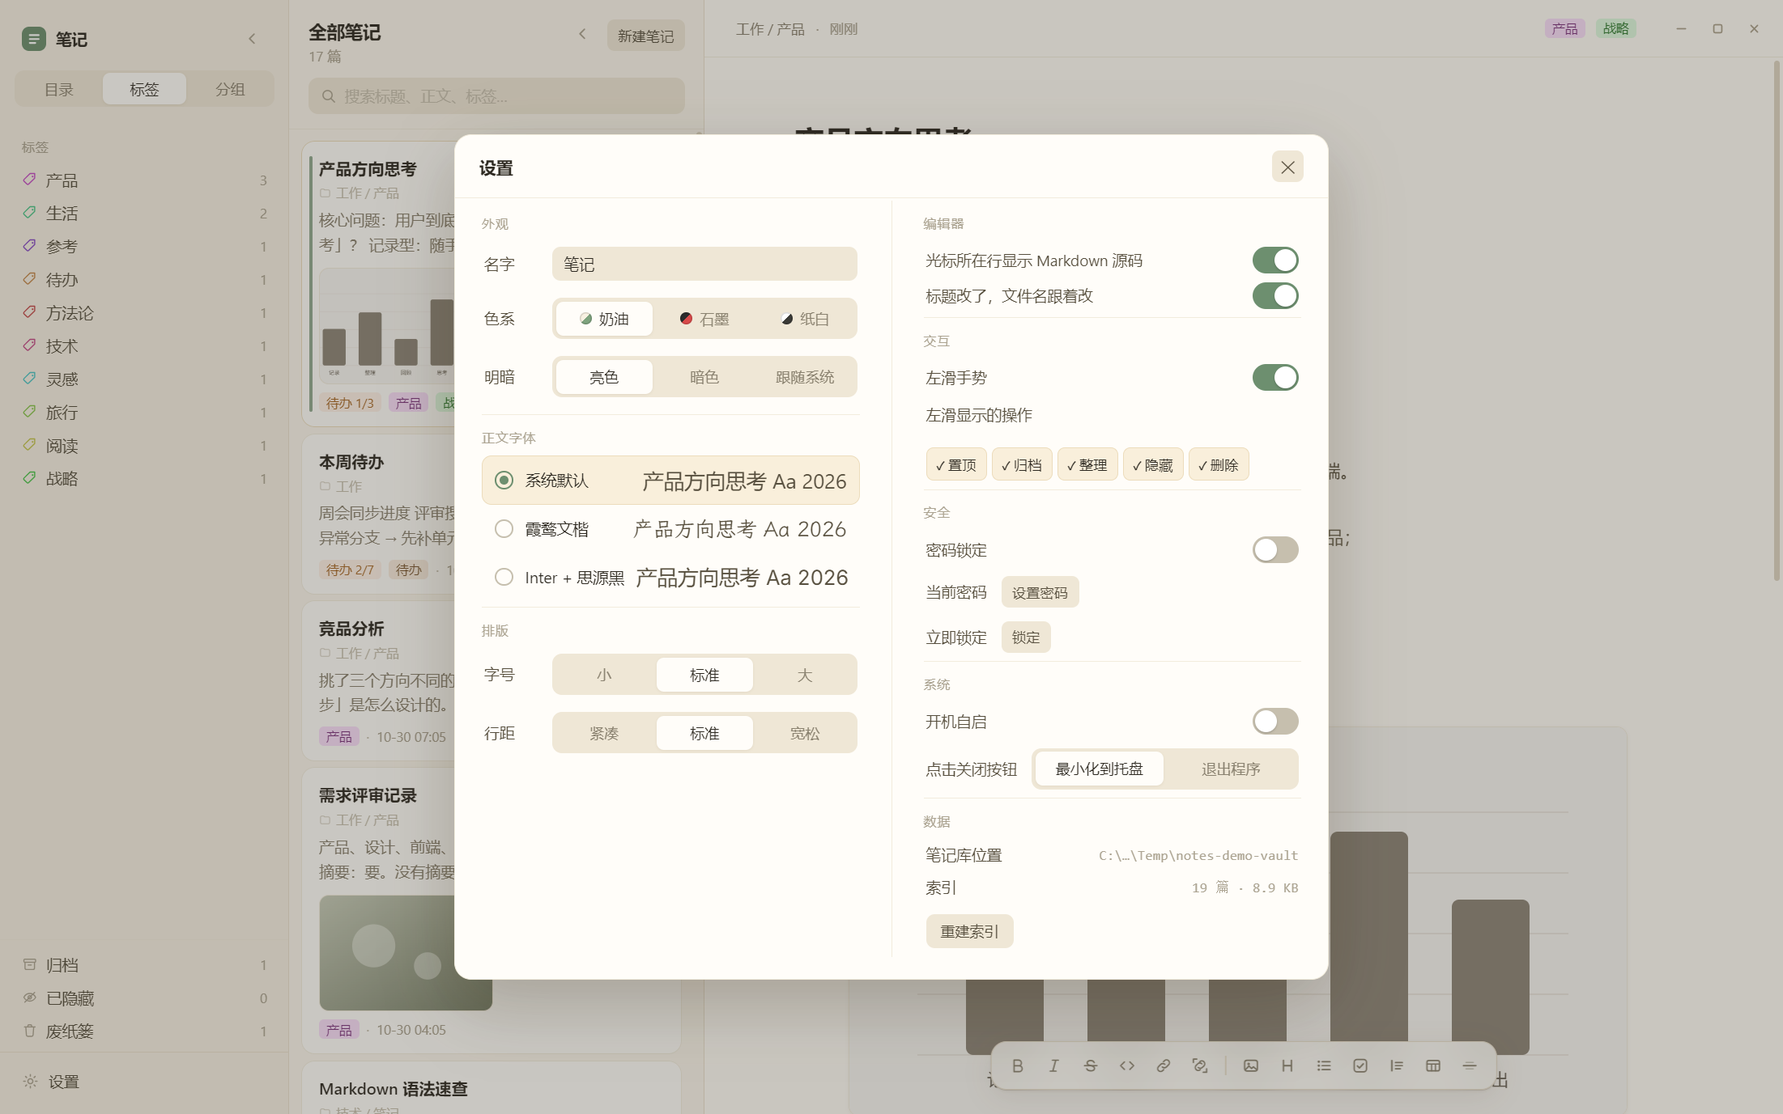
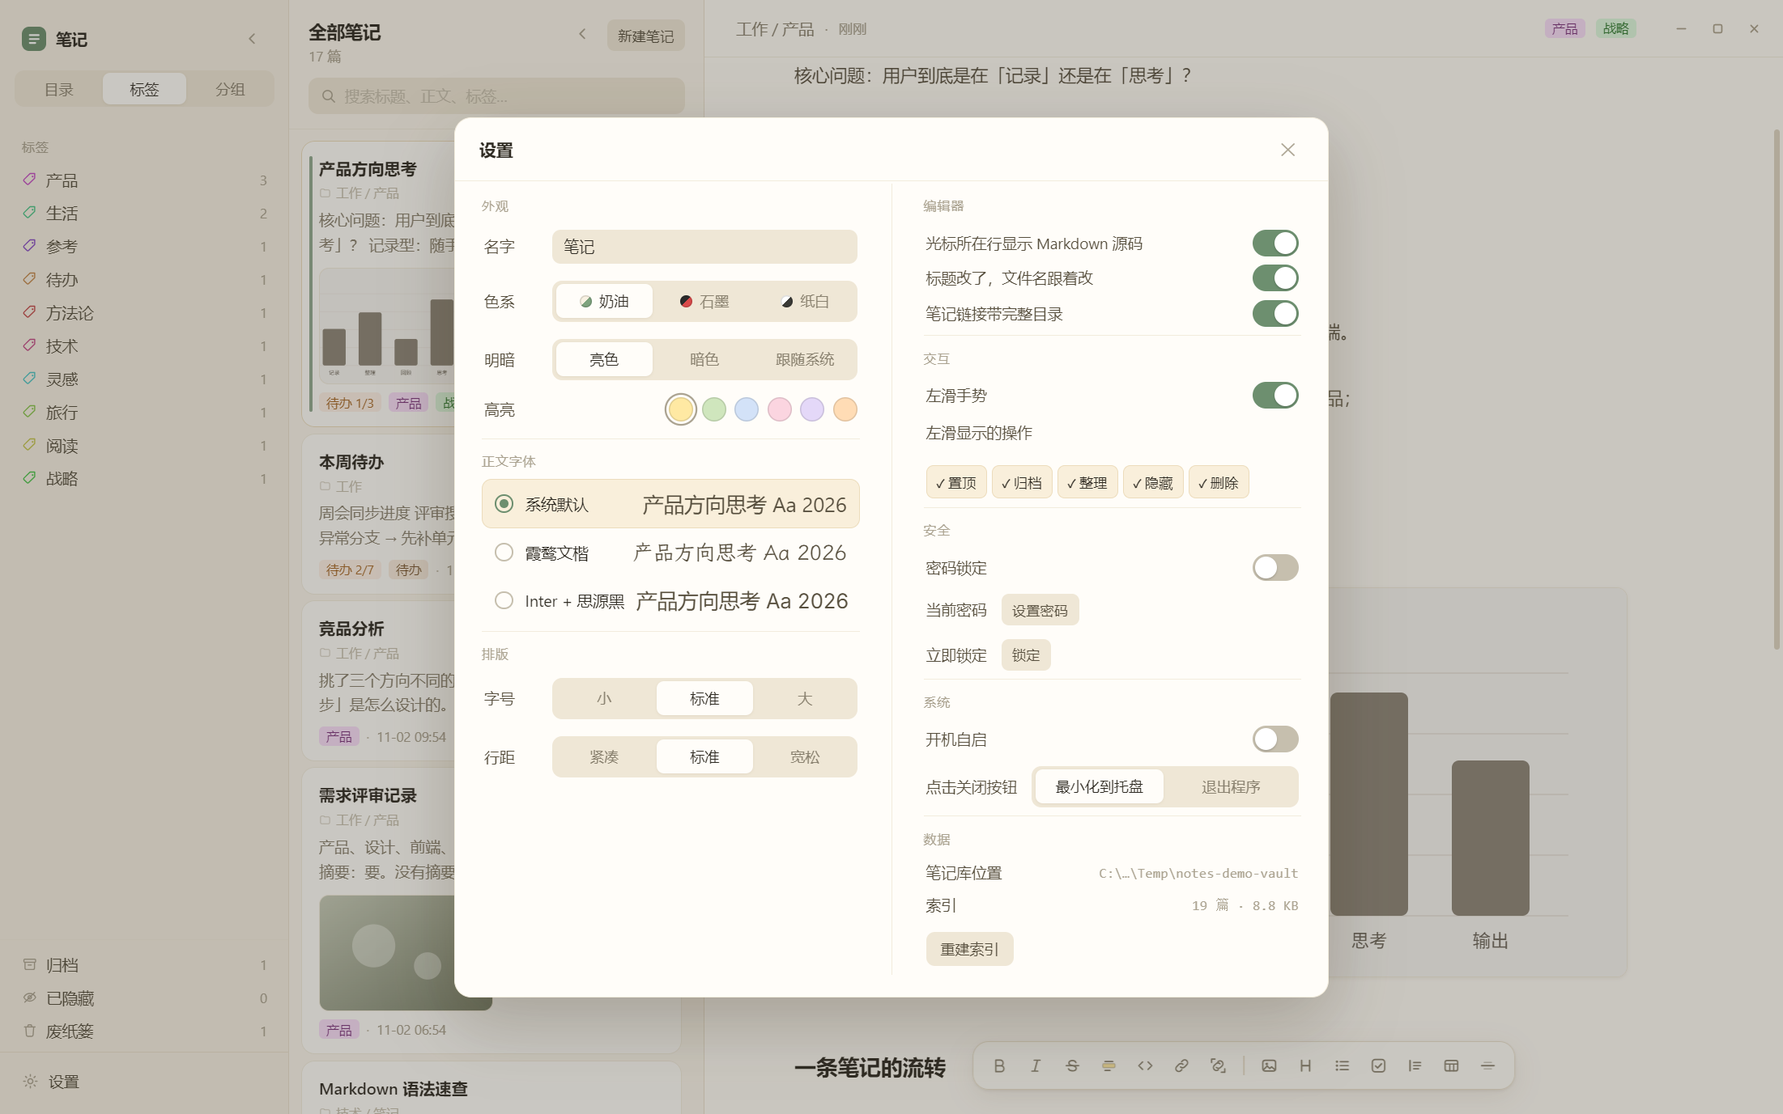
feat: six highlighter colours, picked in settings or from the quick bar
`==text==` keeps its syntax, so the .md stays plain text, but the band
colour is no longer welded to the scheme. A new hlColor setting drives a
data-hl attribute on <html>, and tokens.css maps it onto --mark with a
light and a dark value per colour, so the same six pens work across all
three schemes.

Two ways in: a row of dots under 外观 in the settings panel, and a
right-click palette on the highlighter button that also applies the
colour to the current selection. The button's icon band is painted with
var(--mark), so it always shows the pen in hand.

Smoke covers both paths and asserts the computed background rather than
the attribute alone — setting the attribute without CSS catching up would
look like "clicked and nothing happened": hlColor, hlPal.

diff --git a/src/ui/quickbar.ts b/src/ui/quickbar.ts
@@ -11,6 +11,9 @@ import {
   TABLE_TEMPLATE
 } from '../editor/commands';
 import { pickImages } from '../editor/image-insert';
+import { HL_COLORS } from '../settings';
+import { store, saveSettings } from '../store';
+import type { HlColor } from '../types';
 
 interface Cmd {
   id: string;
@@ -46,8 +49,9 @@ const CMDS: (Cmd | null)[] = [
   },
   {
     id: 'hl',
-    title: '高亮  Ctrl+Shift+H',
-    icon: svg(`<rect x="2.6" y="6.2" width="10.8" height="3.6" rx="1.2" fill="currentColor" opacity=".26"/><path d="M4.6 4.4h6.8M4.6 12.2h4.4" ${stroke}/>`),
+    title: '高亮  Ctrl+Shift+H（右键换颜色）',
+    // 中间那条色带直接用 --mark 上色，所以换笔之后图标跟着变，一眼能看出当前颜色
+    icon: svg(`<rect x="2.6" y="6.2" width="10.8" height="3.6" rx="1.2" fill="var(--mark)" stroke="currentColor" stroke-opacity=".4"/><path d="M4.6 4.4h6.8M4.6 12.2h4.4" ${stroke}/>`),
     run: v => toggleWrap(v, '==', '==', '高亮')
   },
   {
@@ -124,6 +128,41 @@ export function quickbarHTML(): string {
   return `<div class="quickbar" id="quickbar">${body}</div>`;
 }
 
+/** 右键唤出的色板；同一时刻只存在一个 */
+let palette: HTMLElement | null = null;
+
+/**
+ * 关掉色板。
+ *
+ * 监听器是「打开时挂、关闭时摘」，不在 bindQuickbar 里常驻一份：
+ * 每换一篇笔记都会重建快捷栏并重新 bind 一次，常驻的 document 监听
+ * 会一份份攒下来。
+ */
+function closePalette(): void {
+  document.removeEventListener('mousedown', onOutsideDown, true);
+  if (!palette) return;
+  palette.remove();
+  palette = null;
+}
+
+function onOutsideDown(e: MouseEvent): void {
+  if (palette && palette.contains(e.target as Node)) return;
+  closePalette();
+}
+
+/**
+ * 换一支马克笔。
+ *
+ * 高亮色只是 <html> 上的一个属性，正文颜色全由 CSS 变量接管，
+ * 所以不用重建编辑器 —— 正在编辑的笔记不会闪，光标和滚动位置也都还在。
+ * 和 theme.ts 的 applySettings 里那一行是同一个约定。
+ */
+function useHlColor(color: HlColor): void {
+  store.settings.hlColor = color;
+  saveSettings();
+  document.documentElement.setAttribute('data-hl', color);
+}
+
 export function bindQuickbar(view: EditorView): void {
   const bar = document.getElementById('quickbar');
   if (!bar) return;
@@ -145,7 +184,44 @@ export function bindQuickbar(view: EditorView): void {
     saved = { anchor: s.anchor, head: s.head };
   });
 
+  /* ---- 高亮：右键唤出色板 ---- */
+  bar.addEventListener('contextmenu', e => {
+    const btn = (e.target as HTMLElement).closest('[data-qb="hl"]') as HTMLElement | null;
+    if (!btn) return;
+    e.preventDefault();
+    // 右键不移动光标，选区还在；存一份，选完颜色要拿它去套高亮
+    const s = view.state.selection.main;
+    saved = { anchor: s.anchor, head: s.head };
+
+    if (palette) { closePalette(); return; }
+
+    const pal = document.createElement('div');
+    pal.className = 'qb-pal';
+    pal.innerHTML = HL_COLORS.map(c =>
+      `<button class="qb-dot${store.settings.hlColor === c.id ? ' on' : ''}" data-c="${c.id}"` +
+      ` title="${c.name}" aria-label="${c.name}"></button>`
+    ).join('');
+    // 挂在按钮正上方：.quickbar 自己是绝对定位，正好当包含块
+    pal.style.left = `${btn.offsetLeft + btn.offsetWidth / 2}px`;
+    bar.appendChild(pal);
+    palette = pal;
+    document.addEventListener('mousedown', onOutsideDown, true);
+  });
+
   bar.addEventListener('click', e => {
+    // 色板里的圆点：换笔；如果本来选着一段字，顺手就套上高亮
+    const dot = (e.target as HTMLElement).closest('[data-c]') as HTMLElement | null;
+    if (dot) {
+      const sel = saved ?? view.state.selection.main;
+      const picked = sel.anchor !== sel.head;
+      useHlColor(dot.dataset.c as HlColor);
+      closePalette();
+      if (saved) view.dispatch({ selection: saved });
+      saved = null;
+      if (picked) toggleWrap(view, '==', '==', '高亮');
+      return;
+    }
+
     const btn = (e.target as HTMLElement).closest('[data-qb]') as HTMLElement | null;
     if (!btn) return;
     const cmd = CMDS.find(c => c && c.id === btn.dataset.qb);

diff --git a/src/styles/tokens.css b/src/styles/tokens.css
@@ -50,6 +50,14 @@ html,body{height:100%}
   --hl:#fdf0c4;
   --hl-hit:#ffe89a;
   --mark:#ffdfb2;
+  /* 色板本身用的颜色：设置面板和快捷栏的圆点共用这一组。
+     它不跟明暗走 —— 选色时看到的是什么颜色，正文里就是什么颜色 */
+  --hlc-yellow:#ffe9a3;
+  --hlc-green:#cfe6bd;
+  --hlc-blue:#d3e2f8;
+  --hlc-pink:#fbd5e0;
+  --hlc-purple:#e4d8f8;
+  --hlc-orange:#ffdcb5;
   /* 链接固定走蓝色系：六套配色都往蓝里靠，红/绿链接会读成「报错」 */
   --link:#2f5fd0;
   --link-line:#ccd9f2;
@@ -402,3 +410,24 @@ html[data-scheme="graphite"][data-theme="dark"]{
 /* 字体：字体族只切换 --font-ui，正文 / UI 一起变 */
 html[data-font="wenkai"]{--font-ui:"LXGW WenKai","PingFang SC","Microsoft YaHei",serif}
 html[data-font="clean"]{--font-ui:"Inter","PingFang SC","Microsoft YaHei","Noto Sans SC",sans-serif}
+
+/* ============================================================
+   高亮颜色（`==文字==` 的马克笔）
+   只覆盖 --mark 一个变量，所以放在最后：
+   它和 data-scheme / data-theme 是三个正交维度，六套配色都能换笔。
+   亮色用淡底 + 深字，暗色用沉底 + 亮字，两边都保住正文可读性。
+   暗色那条多带一个 [data-theme="dark"]，特异性压过上面所有色系定义。
+   ============================================================ */
+html[data-hl="yellow"]{--mark:#ffe9a3}
+html[data-hl="green"]{--mark:#cfe6bd}
+html[data-hl="blue"]{--mark:#d3e2f8}
+html[data-hl="pink"]{--mark:#fbd5e0}
+html[data-hl="purple"]{--mark:#e4d8f8}
+html[data-hl="orange"]{--mark:#ffdcb5}
+
+html[data-hl="yellow"][data-theme="dark"]{--mark:#5b4a17}
+html[data-hl="green"][data-theme="dark"]{--mark:#3e4f2d}
+html[data-hl="blue"][data-theme="dark"]{--mark:#24384f}
+html[data-hl="pink"][data-theme="dark"]{--mark:#4d2b36}
+html[data-hl="purple"][data-theme="dark"]{--mark:#3c3054}
+html[data-hl="orange"][data-theme="dark"]{--mark:#4f3418}

diff --git a/src/styles/right.css b/src/styles/right.css
@@ -218,3 +218,23 @@ body.img-resizing *{cursor:nwse-resize!important;user-select:none!important}
 .qb-btn:active{background:var(--hover-soft);transform:scale(.92)}
 .qb-btn:focus-visible{outline:2px solid var(--sel-border);outline-offset:1px}
 .qb-sep{width:1px;height:16px;background:var(--border);margin:0 5px;flex:none}
+
+/* 高亮色板：右键高亮按钮时浮在快捷栏上方。
+   left 由 JS 按按钮中心算，这里只管垂直方向和观感 */
+.qb-pal{position:absolute;bottom:calc(100% + 9px);transform:translateX(-50%);
+  display:flex;align-items:center;gap:6px;padding:7px 9px;border-radius:11px;
+  background:var(--bg-elev);border:1px solid var(--border);
+  box-shadow:0 8px 24px var(--shadow-lg),0 1px 2px var(--shadow);z-index:31}
+.qb-dot{width:17px;height:17px;padding:0;border:0;border-radius:50%;cursor:pointer;flex:none;
+  box-shadow:inset 0 0 0 1px rgba(0,0,0,.14);
+  transition:transform .12s,box-shadow .12s}
+.qb-dot:hover{transform:scale(1.14)}
+.qb-dot.on{box-shadow:inset 0 0 0 1px rgba(0,0,0,.14),
+  0 0 0 2px var(--bg-elev),0 0 0 3.5px var(--t4)}
+/* 色值统一走 tokens.css 的 --hlc-*，和设置面板里那排圆点同源 */
+.qb-dot[data-c="yellow"]{background:var(--hlc-yellow)}
+.qb-dot[data-c="green"]{background:var(--hlc-green)}
+.qb-dot[data-c="blue"]{background:var(--hlc-blue)}
+.qb-dot[data-c="pink"]{background:var(--hlc-pink)}
+.qb-dot[data-c="purple"]{background:var(--hlc-purple)}
+.qb-dot[data-c="orange"]{background:var(--hlc-orange)}

diff --git a/src/styles/sheet.css b/src/styles/sheet.css
@@ -48,6 +48,22 @@
 .seg.swatch span[data-v="graphite"]::before{background:linear-gradient(135deg,#2b2b2b 0 50%,#d94a4a 50% 100%)}
 .seg.swatch span[data-v="paper"]::before{background:linear-gradient(135deg,#ffffff 0 50%,#3a3a36 50% 100%)}
 
+/* 高亮色板：只放圆点，不放文字。六个色值来自 tokens.css 的 --hlc-*，
+   快捷栏那个右键色板用的是同一组，两处永远一致 */
+.seg.hl{background:transparent;padding:0;gap:7px;justify-content:flex-end}
+.seg.hl span{flex:none;width:20px;height:20px;padding:0;border-radius:50%;
+  box-shadow:inset 0 0 0 1px rgba(0,0,0,.12);transition:transform .13s,box-shadow .13s}
+.seg.hl span:hover{transform:scale(1.1)}
+/* 选中态：外圈留一道底色缝，再套一圈描边，比单纯加粗边框清楚 */
+.seg.hl span.on{box-shadow:inset 0 0 0 1px rgba(0,0,0,.12),
+  0 0 0 2px var(--bg-elev),0 0 0 3.5px var(--t4)}
+.seg.hl span[data-v="yellow"]{background:var(--hlc-yellow)}
+.seg.hl span[data-v="green"]{background:var(--hlc-green)}
+.seg.hl span[data-v="blue"]{background:var(--hlc-blue)}
+.seg.hl span[data-v="pink"]{background:var(--hlc-pink)}
+.seg.hl span[data-v="purple"]{background:var(--hlc-purple)}
+.seg.hl span[data-v="orange"]{background:var(--hlc-orange)}
+
 .rowset{display:flex;align-items:center;gap:12px;padding:5px 2px 9px}
 .rowset .lb{font-size:12.5px;color:var(--t2);width:44px;flex:none}
 /* 行内文本输入（左上角名字）：撑满剩余宽度，跟 .field input 一个观感 */

diff --git a/src/settings.ts b/src/settings.ts
@@ -1,4 +1,4 @@
-import type { Settings, FontId } from './types';
+import type { Settings, FontId, HlColor } from './types';
 
 export const DEFAULT_SETTINGS: Settings = {
   font: 'sys',
@@ -15,6 +15,7 @@ export const DEFAULT_SETTINGS: Settings = {
   midCollapsed: false,
   titleRename: true,
   linkPath: true,
+  hlColor: 'yellow',
   folderOrder: [],
   tagOrder: [],
   appName: '笔记',
@@ -46,6 +47,15 @@ export const FONTS: FontDef[] = [
   }
 ];
 
+export const HL_COLORS: { id: HlColor; name: string }[] = [
+  { id: 'yellow', name: '黄' },
+  { id: 'green', name: '绿' },
+  { id: 'blue', name: '蓝' },
+  { id: 'pink', name: '粉' },
+  { id: 'purple', name: '紫' },
+  { id: 'orange', name: '橙' }
+];
+
 /** 老版本设置文件可能缺字段，合并兜底 */
 export function mergeSettings(raw: unknown): Settings {
   const s = (raw || {}) as Partial<Settings>;
@@ -59,6 +69,8 @@ export function mergeSettings(raw: unknown): Settings {
     // 名字清空等于没设，别让左上角变成一片空白
     appName: name || DEFAULT_SETTINGS.appName,
     lockEnabled: !!s.lockEnabled,
-    lockHash: typeof s.lockHash === 'string' ? s.lockHash : ''
+    lockHash: typeof s.lockHash === 'string' ? s.lockHash : '',
+    // 设置文件被手改过、或者是从更新版本降级回来的，认不出的颜色退回默认
+    hlColor: HL_COLORS.some(c => c.id === s.hlColor) ? s.hlColor! : DEFAULT_SETTINGS.hlColor
   };
 }

diff --git a/src/types.ts b/src/types.ts
@@ -44,6 +44,14 @@ export type ThemeMode = 'light' | 'dark' | 'auto';
 /** 色系：奶油（暖米）/ 石墨（深侧边 + 朱红）/ 纸白（中性） */
 export type ThemeScheme = 'cream' | 'graphite' | 'paper';
 export type CloseAction = 'tray' | 'quit';
+/**
+ * 高亮（`==文字==`）的颜色。
+ *
+ * Markdown 的 `==…==` 本身不带颜色参数，所以这里是「整个库用哪支马克笔」，
+ * 而不是给每一处单独上色 —— 好处是 .md 保持纯文本，别的编辑器打开也不会
+ * 多出看不懂的标记。
+ */
+export type HlColor = 'yellow' | 'green' | 'blue' | 'pink' | 'purple' | 'orange';
 
 export interface Settings {
   font: FontId;
@@ -62,6 +70,8 @@ export interface Settings {
   titleRename: boolean;
   /** 插入笔记链接时写成 `[[目录/标题]]` 而不是 `[[标题]]`，同名笔记才分得清 */
   linkPath: boolean;
+  /** `==高亮==` 用哪支颜色的马克笔 */
+  hlColor: HlColor;
   /** 左栏目录的手动顺序（库内路径，从前往后） */
   folderOrder: string[];
   /** 左栏标签的手动顺序 */

diff --git a/src/ui/settings.ts b/src/ui/settings.ts
@@ -68,6 +68,7 @@ export function syncSettingsUI(): void {
 
   syncSeg('seg-scheme', s.scheme);
   syncSeg('seg-theme', s.theme);
+  syncSeg('seg-hl', s.hlColor);
   syncSeg('seg-size', String(s.size));
   syncSeg('seg-lh', String(s.lh));
   syncSeg('seg-close', s.closeAction);
@@ -105,6 +106,8 @@ export function initSettingsUI(): void {
   /* ---- 分段选择器 ---- */
   bindSeg('seg-scheme', 'scheme', undefined, applySettings);
   bindSeg('seg-theme', 'theme', undefined, applySettings);
+  // 高亮色和色系、明暗一样，改完立刻重刷 <html> 上的属性
+  bindSeg('seg-hl', 'hlColor', undefined, applySettings);
   bindSeg('seg-size', 'size', parseFloat, applySettings);
   bindSeg('seg-lh', 'lh', parseFloat, applySettings);
   bindSeg('seg-close', 'closeAction');

diff --git a/index.html b/index.html
@@ -106,6 +106,12 @@
             <span data-v="light" class="on">亮色</span><span data-v="dark">暗色</span><span data-v="auto">跟随系统</span>
           </div>
         </div>
+        <div class="rowset">
+          <span class="lb">高亮</span>
+          <div class="seg hl" id="seg-hl">
+            <span data-v="yellow" class="on" title="黄色"></span><span data-v="green" title="绿色"></span><span data-v="blue" title="蓝色"></span><span data-v="pink" title="粉色"></span><span data-v="purple" title="紫色"></span><span data-v="orange" title="橙色"></span>
+          </div>
+        </div>
       </div>
       <div class="grp">
         <div class="grp-t">正文字体</div>

diff --git a/src/ui/theme.ts b/src/ui/theme.ts
@@ -16,6 +16,10 @@ export function applySettings(): void {
   // 色系与明暗是两个独立维度，组合出 6 套
   root.setAttribute('data-scheme', s.scheme || 'paper');
 
+  // 高亮色是第三个独立维度：只覆盖 --mark 一个变量，
+  // 六套色系 × 明暗都能用同一支马克笔（见 tokens.css 末尾那段）
+  root.setAttribute('data-hl', s.hlColor || 'yellow');
+
   const dark = s.theme === 'dark' || (s.theme === 'auto' && mqDark.matches);
   root.setAttribute('data-theme', dark ? 'dark' : 'light');
 

diff --git a/README.md b/README.md
@@ -95,12 +95,12 @@ npm run desktop:shots  # same, but against a fictional demo vault — this is wh
 > which meant the sidebar was full of client folder names and the cards held site photos —
 > shipping those with the repo is a leak, so they were replaced entirely.
 
-`desktop:smoke` really clicks through the app before exiting: a real mouse click on the settings panel's close button and the right-pane toggle → click a card → screenshot → click a table to edit → click elsewhere to re-render → click bold in the quick bar then undo → click `···` to open the action bar → switch through three color schemes × light/dark, one screenshot each → multi-select tags → rename a folder (and rename it back) → pin badge → drag to reorder (then drag back) → image rendering → single click only selects → tap the 50% preset → drag the handle wider → shrink to 25% → double-click into source → paste an image to disk → card preview (no blank cards + thumbnails + CRLF excerpt) → code block highlighting + click does nothing + double-click into source → click an internal link → todo resolutions → card path shortens level by level → drag-reorder folders → old folder is reclaimed after rename → file renames when the title changes → placeholder filenames aligned to titles on startup → right-click hide / unhide from Hidden → rename the app → card image on its own row + multi-image layout → set password / lock / wrong password rejected / right password accepted. Screenshots land in `docs/`:
+`desktop:smoke` really clicks through the app before exiting: a real mouse click on the settings panel's close button and the right-pane toggle → click a card → screenshot → click a table to edit → click elsewhere to re-render → click bold in the quick bar then undo → click `···` to open the action bar → switch through three color schemes × light/dark, one screenshot each → multi-select tags → rename a folder (and rename it back) → pin badge → drag to reorder (then drag back) → image rendering → single click only selects → tap the 50% preset → drag the handle wider → shrink to 25% → double-click into source → paste an image to disk → card preview (no blank cards + thumbnails + CRLF excerpt) → code block highlighting + click does nothing + double-click into source → click an internal link → todo resolutions → switch the highlight colour (settings panel + right-click palette) → card path shortens level by level → drag-reorder folders → old folder is reclaimed after rename → file renames when the title changes → placeholder filenames aligned to titles on startup → right-click hide / unhide from Hidden → rename the app → card image on its own row + multi-image layout → set password / lock / wrong password rejected / right password accepted. Screenshots land in `docs/`:
 
 | File | Contents |
 | --- | --- |
 | `scheme-{cream,graphite,paper}-{light,dark}.png` | One per color scheme × light/dark |
-| `settings-appearance.png` | Settings: name / scheme / light-dark / security |
+| `settings-appearance.png` | Settings: name / scheme / light-dark / highlight / security |
 | `meta-tags.png` | Tag multi-select in the "organize" sheet |
 | `left-rename.png` | Inline rename field in the left pane |
 | `desktop-image.png` | Image in the body (full window) |
@@ -171,9 +171,11 @@ The final `verdict={...}` line prints all of those booleans — if one goes red,
 **Writing notes**
 - The `新建笔记` (New note) button at the top right of the middle pane — or `Ctrl/Cmd + N` — starts a note. The title is the first `# Heading` line of the body.
 - Typing `# `, `- `, `- [ ] `, `> `, `**bold**`, `` `code` `` immediately renders into the corresponding style.
-- `==highlight==` gives a soft marker-pen band behind the text. It's a per-theme colour, deliberately a different hue from
-  the italic band and from the yellow search hit, so the three don't get confused. `Ctrl/Cmd + Shift + H` or the
-  highlighter button in the quick bar wraps the selection.
+- `==highlight==` gives a soft marker-pen band behind the text. **The colour is yours to pick**: Settings →
+  Appearance → Highlight offers six pens (yellow / green / blue / pink / purple / orange), all working across the three
+  schemes in both light and dark — or right-click the highlighter button in the quick bar to switch on the spot.
+  It deliberately uses a different hue from the italic band and from the yellow search hit, so the three don't get
+  confused. `Ctrl/Cmd + Shift + H` or the highlighter button in the quick bar wraps the selection.
 - When the cursor sits on a line, that line reveals its Markdown source so you can edit it; move away and it renders again.
 - **Enter continues the format.** At the end of a task line (`- [ ] `), a list item (`- ` / `1. `) or a quote (`> `),
   Enter starts the next line with the same marker: ordered lists increment, new todos always start unchecked, indentation
@@ -185,7 +187,7 @@ The final `verdict={...}` line prints all of those booleans — if one goes red,
 
 **Bottom quick bar**
 - A floating toolbar sits at the bottom of the editor so you don't have to remember syntax. It floats over the text rather than taking up layout space (the body already leaves room at the bottom).
-- The left group is inline formatting: bold / italic / strikethrough / highlight / inline code / link.
+- The left group is inline formatting: bold / italic / strikethrough / highlight (right-click to change its colour) / inline code / link.
 - The right group is block elements: image / heading / list / todo / quote / table / divider.
 - With a selection, the format wraps the selection; clicking the same button again removes it. With no selection, it inserts a pair of markers and puts the cursor in between.
 - The heading button cycles: body → `##` → `###` → body.
@@ -479,7 +481,7 @@ notes-app/
 │   │   ├── lock.ts            lock screen + set-password dialog (WebCrypto digest, FNV fallback)
 │   │   └── titlebar.ts        custom window buttons and drag regions for the frameless window
 │   └── styles/                CSS split by area
-│       ├── tokens.css         ★ all colors live here (3 schemes × light/dark = 6 sets, including code highlight colors)
+│       ├── tokens.css         ★ all colors live here (3 schemes × light/dark = 6 sets, plus 6 highlighter pens, including code highlight colors)
 │       ├── base.css           three-pane grid / collapse / frameless window buttons / toasts
 │       ├── left.css           left pane (colors via the --side-* group, invertible on its own)
 │       ├── mid.css            middle pane cards / swipe action bar
